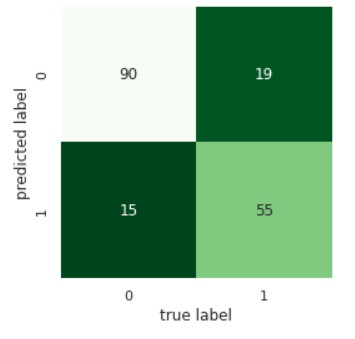
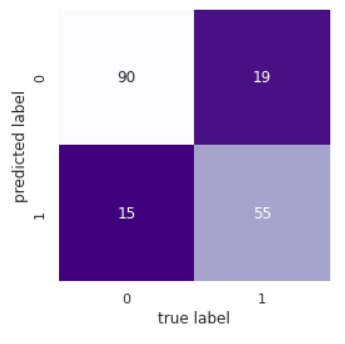
correct-info

diff --git a/screens/HomeScreen.js b/screens/HomeScreen.js
@@ -20,32 +20,41 @@ export default function HomeScreen() {
                 require('../assets/titanic.jpeg')
               }
               className='mt-2 rounded-full'
-              style={{ width: 50, height: 50}}
+              style={{ width: 60, height: 60}}
             />
             <View>
               <Text className='text-xs text-[#666768] text-justify'>Reto</Text>
-              <Text className='text-[#131314] font-black text-2xl tracking-wide'>Titanic</Text>
+              <Text className='text-black font-black text-2xl tracking-wide'>Titanic</Text>
             </View>    
           </View>
           <View>
-            <Text className='text-lg font-bold'>Presente</Text>
-            <Text className='text-xs text-justify text-[#666768]'>Hoy en día, los algoritmos son necesarios para la mayoría de los campos.</Text>
-            <Text className='text-xs text-justify text-[#666768]'>Se usan en las finanzas(para tener una idea de cómo se moverá la economía en un futuro), en la ciencia(para ver la viabilidad o éxito de un experimento), en la educación(para la enseñanza de carreras como la ingeniería).</Text>
+            <Text className='text-lg font-bold'>Importancia</Text>
+            <Text className='text-xs text-justify text-[#3D3D3E]'>Hoy en día los algoritmos son <Text className='text-[#5c0cbc] font-bold'>necesarios</Text> para la mayoría de los campos, en específico, los de machine learning se aplican en áreas como reconocimiento facial, diagnósticos médicos, clasificación de secuencias de ADN, predicción de tendencias, recomendaciones, vehículos inteligentes, redes sociales, asistentes virtuales, búsquedas, ciberseguridad, entre otros, por lo que es relevante <Text className='text-[#5c0cbc] font-bold'>conocerlos y aplicarlos para eficientar procesos e innovar.</Text></Text>
           </View>
           <View>
-            <Text className='text-lg font-bold'>Pasado</Text>
-            <Text className='text-xs text-justify text-[#666768]'>El Titanic, también conocido como "el barco insumergible", se hundió después de chocar contra un iceberg en su viaje inaugural el 15 de abril de 1912.</Text>
-            <Text className='text-xs text-justify text-[#666768]'>Desafortunadamente, no había suficientes botes salvavidas, lo que costó la vida de pasajeros y tribulantes que estuvieron a bordo. Pese a que algunas personas tuvieron suerte al sobrevivir, existe un grupo de personas que tenían más posibilidades de vivir que otros.</Text>
+            <Text className='text-lg font-bold'>Machine Learning</Text>
+            <Text className='text-xs text-justify text-[#3D3D3E]'>Es una disciplina en el campo de inteligencia artificial la cual hace uso de algoritmos que le permiten a las computadoras <Text className='text-[#5c0cbc] font-bold'>identificar patrones en datos masivos y generar predicciones</Text>, lo cuál permite que puedan realizar acciones o trabajos específicos sin necesidad de ser programadas. A continuación se explican las 3 categorías de algoritmos que existen en esta área.</Text>
+            <Text className='text-md font-bold pt-2'>Aprendizaje supervisado</Text>
+            <Text className='text-xs text-justify text-[#3D3D3E]'>Son algoritmos que aprenden previamente sobre un sistema de etiquetas asociadas a datos y a partir de ellas predicen o toman decisiones.</Text>
+            <Text className='text-md font-bold pt-2'>Aprendizaje no supervisado</Text>
+            <Text className='text-xs text-justify text-[#3D3D3E]'>Son algoritmos que no cuentan con aprendizaje previo y que a partir de los datos encuentran patrones para organizar.</Text>
+            <Text className='text-md font-bold pt-2'>Aprendizaje por refuerzo</Text>
+            <Text className='text-xs text-justify text-[#3D3D3E]'>Son algoritmos que aprenden a partir de su experiencia para tomar decisiones en distintas situaciones por medio de pruebas y errores con recompensas.</Text>
+          </View>
+          <View>
+            <Text className='text-lg font-bold'>Historia</Text>
+            <Text className='text-xs text-justify text-[#3D3D3E]'>El Titanic, también conocido como "el barco insumergible", se hundió después de chocar contra un iceberg en su viaje inaugural el 15 de abril de 1912. Desafortunadamente, no había suficientes botes salvavidas para todos, lo que costó la vida de bastantes pasajeros y tribulantes que estuvieron a bordo durante el incidente.</Text>
+            <Text className='text-xs text-justify text-[#3D3D3E]'>Pese a que algunas personas tuvieron suerte, también existió otro grupo que por ciertas <Text className='text-[#5c0cbc] font-bold'>características</Text>, tenían más posibilidades de sobrevivir.</Text>
           </View>
           <View>
             <Text className='text-lg font-bold'>Reto</Text>
-            <Text className='text-xs text-justify text-[#666768]'>Consiste en desarrollar el reto "Titanic - Aprendizaje automático a partir de desastres" el cuál tiene como objetivo construir un modelo predictivo que pueda reconocer a aquellas personas que tendrían más probabilidades de sobrevivir al naufragio más reconocido de la historia, tomando en cuenta los datos de las personas que estuvieron a bordo.</Text>
+            <Text className='text-xs text-justify text-[#3D3D3E]'>Consiste en desarrollar el reto <Text className='text-[#5c0cbc] font-bold'>"Titanic - Aprendizaje automático a partir de desastres"</Text> el cuál tiene como objetivo construir un modelo predictivo que pueda reconocer a aquellas personas que tendrían más probabilidades de sobrevivir al naufragio más reconocido de la historia, tomando en cuenta los datos de las personas que estuvieron a bordo.</Text>
           </View>
           <View>
             <Text className='text-lg font-bold'>Equipo 4</Text>
-            <Text className='text-xs text-justify text-[#666768]'>Hazel Astrid Ángeles Quevedo</Text>
-            <Text className='text-xs text-justify text-[#666768]'>Andrick Jesús Pérez Landa</Text>
-            <Text className='text-xs text-justify text-[#666768]'>Karen Rocío Macías Ávila</Text>
+            <Text className='text-xs text-justify text-[#3D3D3E]'>Hazel Astrid Ángeles Quevedo</Text>
+            <Text className='text-xs text-justify text-[#3D3D3E]'>Andrick Jesús Pérez Landa</Text>
+            <Text className='text-xs text-justify text-[#3D3D3E]'>Karen Rocío Macías Ávila</Text>
           </View>
         </View>
       </ScrollView>

diff --git a/screens/AlgorithmTwoScreen.js b/screens/AlgorithmTwoScreen.js
@@ -20,7 +20,7 @@ export default function AlgorithmTwoScreen() {
                 require('../assets/logistic.jpg')
               }
               className='mt-2 rounded-full'
-              style={{ width: 50, height: 50}}
+              style={{ width: 60, height: 60}}
             />
             <View>
               <Text className='text-xs text-[#666768] text-justify'>Algoritmo</Text>
@@ -28,22 +28,23 @@ export default function AlgorithmTwoScreen() {
             </View>
           </View>
           <View>
-            <Text className='text-lg font-bold'>Qué es</Text>
-            <Text className='text-xs text-justify text-[#666768]'>Hoy en día, los algoritmos son necesarios para la mayoría de los campos.</Text>
-            <Text className='text-xs text-justify text-[#666768]'>Se usan en las finanzas(para tener una idea de cómo se moverá la economía en un futuro), en la ciencia(para ver la viabilidad o éxito de un experimento), en la educación(para la enseñanza de carreras como la ingeniería).</Text>
+            <Text className='text-lg font-bold'>¿Qué es?</Text>
+            <Text className='text-xs text-justify text-[#3D3D3E]'>Es un algoritmo de machine learning para aprendizaje supervisado que clasifica datos en categorías o clases al <Text className='text-[#5c0cbc] font-bold'>predecir la probabilidad de que una observación caiga en una clase particular en función de sus características</Text>. A pesar de que se puede extender a más de dos categorías, la regresión logística se usa a menudo para hacer una clasificación binaria.</Text>
+            <Text className='text-xs text-justify text-[#3D3D3E]'>Funciona transformando el predictor lineal mediante la función sigmoidea para que los valores estén entre 0 y 1 para interpretarlos como probabilidades que después se comparen con un umbral para predecir una clase <Text className='text-[#5c0cbc] font-black'>y</Text> basada en <Text className='text-[#5c0cbc] font-black'>x</Text>.</Text>
           </View>
           <View>
             <Text className='text-lg font-bold'>Justificación</Text>
-            <Text className='text-xs text-justify text-[#666768]'>Hoy en día, los algoritmos son necesarios para la mayoría de los campos.</Text>
-            <Text className='text-xs text-justify text-[#666768]'>Se usan en las finanzas(para tener una idea de cómo se moverá la economía en un futuro), en la ciencia(para ver la viabilidad o éxito de un experimento), en la educación(para la enseñanza de carreras como la ingeniería).</Text>
+            <Text className='text-xs text-justify text-[#3D3D3E]'>Ya que este algoritmo se usa habitualmente para determinar o <Text className='text-[#5c0cbc] font-bold'>clasificar entre dos categorías</Text> se determinó que su uso es apropiado para el desarrollo del reto.</Text>
+            <Text className='text-xs text-justify text-[#3D3D3E]'>Por otra parte, se seleccionó este modelo debido a que al graficar los valores y ajustarlos mediante una función se puede buscar un nuevo punto que, tomando en cuenta el umbral <Text className='text-[#5c0cbc] font-bold'>(determinado por la persona que realiza el modelo)</Text> puede determinar con mayor precisión las categorías buscadas. Además, al ser una función que se puede graficar, dependiendo de la cantidad de características diferentes que tienen los datos es un <Text className='text-[#5c0cbc] font-bold'>modelo visual</Text> en el que se puede plasmar el nuevo <Text className='text-[#5c0cbc] font-bold'>sujeto a predecir</Text> y  <Text className='text-[#5c0cbc] font-bold'>localizarlo</Text> en un punto en concreto dentro de la gráfica.</Text>
+            <Text className='text-xs text-justify text-[#3D3D3E]'>La regresión logística es más fácil de implementar, interpretar, eficiente de entrenar y es menos propensa al overfitting.</Text>
           </View>
           <View>
             <Text className='text-lg font-bold'>Resultados</Text>
-            <Text className='text-xs text-justify text-[#666768]'>A continuación se presentan los valores de predicción finales que obtuvimos con el modelo.</Text>
+            <Text className='text-xs text-justify text-[#3D3D3E]'>A continuación se presentan los valores de predicción finales que obtuvimos con el modelo.</Text>
             <View className='flex space-y-2'>
               <View>
                 <Text className='text-md font-bold pt-2'>Precisión</Text>
-                <Text className='text-xs text-justify text-[#666768]'>0.81</Text>
+                <Text className='text-xs text-justify text-[#3D3D3E]'>0.81</Text>
               </View>
               <View>
                 <Text className='text-md font-bold'>Matriz de confusión</Text>
@@ -66,11 +67,11 @@ export default function AlgorithmTwoScreen() {
               </View>
               <View>
                 <Text className='text-md font-bold'>Área bajo la curva</Text>
-                <Text className='text-xs text-justify text-[#666768]'>0.80</Text>
+                <Text className='text-xs text-justify text-[#3D3D3E]'>0.80</Text>
               </View>
               <View>
                 <Text className='text-md font-bold'>Puntaje de Kaggle</Text>
-                <Text className='text-xs text-justify text-[#666768]'>0.76</Text>
+                <Text className='text-xs text-justify text-[#3D3D3E]'>0.76</Text>
               </View>
             </View>
           </View>

diff --git a/screens/SelectScreen.js b/screens/SelectScreen.js
@@ -1,4 +1,4 @@
-import { View, Text, ScrollView } from 'react-native';
+import { View, Text, ScrollView, Image } from 'react-native';
 import React from 'react';
 import NavBar from '../components/NavBar';
 
@@ -13,8 +13,41 @@ export default function SelectScreen() {
       contentContainerStyle={{
         paddingVertical: 15,
       }}>
-			  <Text className='text-[#131314] font-black text-2xl tracking-wide'>Select Screen</Text>
-        <Text className='text-sm text-[#666768]'>Hola</Text>
+			  <View className='flex space-y-5'>
+          <View className='flex-row items-end space-x-2'>
+            <Image
+              source={
+                require('../assets/selection.jpg')
+              }
+              className='mt-2 rounded-full'
+              style={{ width: 60, height: 60}}
+            />
+            <View>
+              <Text className='text-xs text-[#666768] text-justify'>Random Forest</Text>
+              <Text className='text-[#131314] font-black text-2xl tracking-wide'>Selección de algoritmo</Text>
+            </View>
+          </View>
+          <View>
+            <Text className='text-lg font-bold'>Justificación</Text>
+            <Text className='text-xs text-justify text-[#3D3D3E]'>Tomando en cuenta que conocemos las categorías que queremos obtener, es decir, si una persona sobrevive o no sobrevive, estamos hablando de un <Text className='text-[#5c0cbc] font-bold'>aprendizaje supervisado</Text> y los algoritmos seleccionados cumplen con esa característica.</Text>
+            <Text className='text-md font-bold pt-2'>Método de comparación</Text>
+            <Text className='text-xs text-justify text-[#3D3D3E]'>Al comparar el rendimiento general de los modelos, se consideraron como principales métricas la precisión, el ROC y el AUC.</Text>
+            <Text className='text-xs text-justify text-[#3D3D3E]'>En este caso, se tomaron los archivos de train y test para probar el modelo y para determinar si este <Text className='text-[#5c0cbc] font-bold'>predice correctamente en datos de entrenamiento</Text> se analizaron todas las métricas previamente mencionadas.</Text>
+            <Text className='text-md font-bold pt-2'>Métricas</Text>
+            <Text className='text-xs font-bold pt-2'>Precisión</Text>
+            <Text className='text-xs text-justify text-[#3D3D3E]'>Es un buen promedio general de qué tan bien el modelo puede predecir y calcular.</Text>
+            <Text className='text-xs font-bold pt-2'>ROC</Text>
+            <Text className='text-xs text-justify text-[#3D3D3E]'>Después de ejecutar el conjunto de datos simulado a través de cada modelo, los resultados pueden ser representados <Text className='text-[#5c0cbc] font-bold'>gráficamente</Text> utilizando la curva característica operativa del receptor.</Text>
+            <Text className='text-xs text-justify text-[#3D3D3E]'>La curva ROC es un gráfico con el eje <Text className='text-[#5c0cbc] font-black'>x</Text> de 0 a 1 de la tasa de <Text className='text-[#5c0cbc] font-bold'>falsos positivos</Text> y el eje <Text className='text-[#5c0cbc] font-black'>y</Text> de 0 a 1 de la tasa de <Text className='text-[#5c0cbc] font-bold'>verdaderos positivos</Text> en varios ajustes de <Text className='text-[#5c0cbc] font-bold'>umbral</Text>. Un predictor perfecto tendría una tasa de falsos positivos de 0 y una tasa positiva verdadera de 1.</Text>
+            <Text className='text-xs font-bold pt-2'>AUC</Text>
+            <Text className='text-xs text-justify text-[#3D3D3E]'>Cuando se grafica sobre una serie de umbrales, el área bajo la curva puede proporcionar un <Text className='text-[#5c0cbc] font-bold'>valor único</Text> que brinda información acerca de qué tan bien el modelo está clasificando.</Text>
+            <Text className='text-xs text-justify text-[#3D3D3E]'>El AUC es más descriptivo que precisión porque es un <Text className='text-[#5c0cbc] font-bold'>equilibrio de precisión y tasa de falsos positivos.</Text></Text>
+            <Text className='text-xs font-bold pt-2'>Matriz de confusión</Text>
+            <Text className='text-xs text-justify text-[#3D3D3E]'>A pesar de no ser una de las métricas previamente mencionadas, se tomó en cuenta debido a que al igual que los anteriores parámetros nos permite visualizar el desempeño de nuestro algoritmo, en particular, sirve para mostrar de forma explícita cuando una clase es <Text className='text-[#5c0cbc] font-bold'>confundida con otra</Text>, lo cual, nos permite trabajar de forma separada con distintos tipos de <Text className='text-[#5c0cbc] font-bold'>error.</Text></Text>
+            <Text className='text-md font-bold pt-2'>Conclusión</Text>
+            <Text className='text-xs text-justify text-[#3D3D3E]'>Con todo esto en cuenta y al utilizar la misma <Text className='text-[#5c0cbc] font-bold'>limpieza de datos</Text> con los modelos de Logistic Regression y con Random Forest, se observó que el segundo algorimto tiene un <Text className='text-[#5c0cbc] font-bold'>mejor desempeño</Text> en las métricas principales, lo que se puede deducir para este caso especifico de datos que <Text className='text-[#5c0cbc] font-bold'>Random Forest</Text> es el mejor algoritmo para predecir a aquellas personas que podrían sobrevivir ante el hundimiento del Titanic.</Text>
+          </View>
+        </View>
       </ScrollView>
     </View>
   )

diff --git a/screens/AlgorithmOneScreen.js b/screens/AlgorithmOneScreen.js
@@ -20,7 +20,7 @@ export default function AlgorithmOneScreen() {
                 require('../assets/forest.jpg')
               }
               className='mt-2 rounded-full'
-              style={{ width: 50, height: 50}}
+              style={{ width: 60, height: 60}}
             />
             <View>
               <Text className='text-xs text-[#666768] text-justify'>Algoritmo</Text>
@@ -28,22 +28,22 @@ export default function AlgorithmOneScreen() {
             </View>
           </View>
           <View>
-            <Text className='text-lg font-bold'>Qué es</Text>
-            <Text className='text-xs text-justify text-[#666768]'>Es un algoritmo de machine learning, el cual combina la salida de muchos árboles de decisión para conseguir una salida única.</Text>
-            <Text className='text-xs text-justify text-[#666768]'>Este usa muchos árboles de decisiones, lo que favorece el encontrar una mejor solución, ya que puede compensar el error de algunos árboles de decisión al comparar las respuestas y conseguir una que sea mucho mejor. </Text>
+            <Text className='text-lg font-bold'>¿Qué es?</Text>
+            <Text className='text-xs text-justify text-[#3D3D3E]'>Es un algoritmo de machine learning para aprendizaje supervisado, el cual <Text className='text-[#5c0cbc] font-bold'>combina la salida de muchos árboles de decisión para conseguir una salida única.</Text></Text>
+            <Text className='text-xs text-justify text-[#3D3D3E]'>Este usa muchos árboles de decisiones aleatorios, lo que favorece el encontrar una mejor solución, ya que puede <Text className='text-[#5c0cbc] font-bold'>compensar el error</Text> de algunos árboles de decisión al comparar las respuestas y conseguir una que sea mucho mejor ya que la diversidad resulta en un mejor modelo.</Text>
           </View>
           <View>
             <Text className='text-lg font-bold'>Justificación</Text>
-            <Text className='text-xs text-justify text-[#666768]'>Este algoritmo, como beneficios, proporciona un menor riesgo de overfitting y una menor cantidad de falsos positivos/negativos; su facilidad de uso y su adaptabilidad son puntos clave para ser una buena opción para este problema.</Text>
-            <Text className='text-xs text-justify text-[#666768]'>Texto 2</Text>
+            <Text className='text-xs text-justify text-[#3D3D3E]'>Este algoritmo, como  <Text className='text-[#5c0cbc] font-bold'>beneficios</Text>, proporciona un menor riesgo de overfitting y una menor cantidad de falsos positivos/negativos; su facilidad de uso y su adaptabilidad son puntos clave para ser una buena opción para este problema.</Text>
+            <Text className='text-xs text-justify text-[#3D3D3E]'>Se seleccionó este modelo debido a que, agarra todos los datos que se eligieron para predecir y los comienza a <Text className='text-[#5c0cbc] font-bold'>combinar para crear diversas decisiones que generan una clasificación final de forma aleatoria</Text>, esto en repetidas ocasiones hasta que al finalizar se realiza una <Text className='text-[#5c0cbc] font-bold'>votación</Text> entre todos y se obtiene una categoría final, creando una oportunidad de encontrar una solución muy precisa ya que juega con todos los datos.</Text>
           </View>
           <View>
             <Text className='text-lg font-bold'>Resultados</Text>
-            <Text className='text-xs text-justify text-[#666768]'>A continuación se presentan los valores de predicción finales que obtuvimos con el modelo.</Text>
+            <Text className='text-xs text-justify text-[#3D3D3E]'>A continuación se presentan los valores de predicción finales que obtuvimos con el modelo.</Text>
             <View className='flex space-y-2'>
               <View>
                 <Text className='text-md font-bold pt-2'>Precisión</Text>
-                <Text className='text-xs text-justify text-[#666768]'>0.82</Text>
+                <Text className='text-xs text-justify text-[#3D3D3E]'>0.82</Text>
               </View>
               <View>
                 <Text className='text-md font-bold'>Matriz de confusión</Text>
@@ -61,16 +61,16 @@ export default function AlgorithmOneScreen() {
                   require('../assets/roc_alg1.jpeg')
                 }
                 className='mt-2'
-                style={{ width: 360, height: 210}}
+                style={{ width: 350, height: 210}}
                 />
               </View>
               <View>
                 <Text className='text-md font-bold'>Área bajo la curva</Text>
-                <Text className='text-xs text-justify text-[#666768]'>0.80</Text>
+                <Text className='text-xs text-justify text-[#3D3D3E]'>0.80</Text>
               </View>
               <View>
                 <Text className='text-md font-bold'>Puntaje de Kaggle</Text>
-                <Text className='text-xs text-justify text-[#666768]'>0.74</Text>
+                <Text className='text-xs text-justify text-[#3D3D3E]'>0.74</Text>
               </View>
             </View>
           </View>

diff --git a/screens/PredictionScreen.js b/screens/PredictionScreen.js
@@ -26,7 +26,7 @@ export default function PredictionScreen() {
                 require('../assets/random.jpg')
               }
               className='mt-2 rounded-full'
-              style={{ width: 50, height: 50}}
+              style={{ width: 60, height: 60}}
             />
             <View>
               <Text className='text-xs text-[#666768] text-justify'>Algoritmo: Random Forest</Text>
@@ -37,7 +37,7 @@ export default function PredictionScreen() {
             <Formik 
             initialValues={{passengerid:'', pclass:'', name:'', sex:'', age:'', sibsp:'', parch:'', ticket:'', fare:'', cabin:'', embarked:''}}
             onSubmit={values=>
-            axios.post('http://10.48.229.5:5000/predict',{
+            axios.post('http://192.168.1.65:5000/predict',{
               passengerid: values.passengerid,
               pclass: values.pclass,
               name: values.name,
@@ -69,7 +69,7 @@ export default function PredictionScreen() {
                 onChangeText={handleChange('pclass')}
                 onBlur={handleBlur('pclass')}
                 value={values.pclass}
-                placeholder="Opciones: 1, 2, 3"
+                placeholder="Opciones: 1=primera clase, 2=segunda clase, 3=tercera clase"
                 className='text-xs h-12 bg-white border border-[#666768]'
                 />
               </View>
@@ -89,7 +89,7 @@ export default function PredictionScreen() {
                 onChangeText={handleChange('sex')}
                 onBlur={handleBlur('sex')}
                 value={values.sex}
-                placeholder="Opciones: 0-hombre, 1-mujer"
+                placeholder="Opciones: 0=hombre, 1=mujer"
                 className='text-xs h-12 bg-white border border-[#666768]'
                 />
               </View>
@@ -159,16 +159,16 @@ export default function PredictionScreen() {
                 onChangeText={handleChange('embarked')}
                 onBlur={handleBlur('embarked')}
                 value={values.embarked}
-                placeholder="Opciones: 0 = Cherbourg, 1 = Queenstown, 2 = Southampton"
+                placeholder="Opciones: 0=Cherbourg, 1=Queenstown, 2=Southampton"
                 className='text-xs h-12 bg-white border border-[#666768]'
                 />
               </View>
               <View className='flex items-center p-2 space-y-3'>
-                <Button onPress={handleSubmit} title=' Predecir ' color='#345b54'/>
+                <Button onPress={handleSubmit} title=' Predecir ' color='#5c0cbc'/>
                 <View className='flex space-y-1 items-center'>
                   <Text className='text-lg font-bold'>Predicción</Text>
-                  <Text className='text-xs text-justify text-[#666768]'>La predicción devuelve un 0 y 1 que corresponde a morir o sobrevivir respectivamente.</Text>
-                  <Text className='text-xs text-justify text-[#345b54] font-extrabold'>{prediction}</Text>
+                  <Text className='text-xs text-justify text-[#3D3D3E]'>La predicción devuelve las opciones: 0 = sobrevivir y  1 = no sobrevivir. El resultado para la persona que ingresaste es el siguiente.</Text>
+                  <Text className='text-lg text-justify text-[#5c0cbc] font-black'>{prediction}</Text>
                 </View>
               </View>
             </View>

diff --git a/components/NavBar.js b/components/NavBar.js
@@ -32,43 +32,43 @@ export default function NavBar({isHome, isAlg1, isAlg2, isSelect, isPrediction})
         </TouchableOpacity>
       )
     }
-    <View className='bg-[#131314] h-24 z-10'>
-      <View className={`bg-[#131314] w-64 h-[10000px] px-6 z-10 ${isOpen ? 'translate-x-0' : 'translate-x-96'} ease-in-out duration-700`}>
+    <View className='bg-[#5c0cbc] h-24 z-10'>
+      <View className={`bg-[#5c0cbc] w-64 h-[10000px] px-6 z-10 ${isOpen ? 'translate-x-0' : 'translate-x-96'} ease-in-out duration-700`}>
         <View className='pt-24 flex space-y-4'>
           <TouchableOpacity 
           onPress={()=>{
             navigation.navigate('Home')
           }}
           >
-            <Text className={`text-xl font-bold ${isHome ? 'text-white underline underline-offset-8': 'text-[#666768]'}`}>Inicio</Text>
+            <Text className={`text-xl font-bold ${isHome ? 'text-white underline': 'text-[#E0E0E1]'}`}>Inicio</Text>
           </TouchableOpacity>
           <TouchableOpacity 
           onPress={()=>{
             navigation.navigate('AlgorithmOne')
           }}
           >
-            <Text className={`text-xl font-bold ${isAlg1 ? 'text-white underline': 'text-[#666768]'}`}>Algoritmo uno</Text>
+            <Text className={`text-xl font-bold ${isAlg1 ? 'text-white underline': 'text-[#E0E0E1]'}`}>Algoritmo uno</Text>
           </TouchableOpacity>
           <TouchableOpacity 
           onPress={()=>{
             navigation.navigate('AlgorithmTwo')
           }}
           >
-            <Text className={`text-xl font-bold ${isAlg2 ? 'text-white underline': 'text-[#666768]'}`}>Algoritmo dos</Text>
+            <Text className={`text-xl font-bold ${isAlg2 ? 'text-white underline': 'text-[#E0E0E1]'}`}>Algoritmo dos</Text>
           </TouchableOpacity>
           <TouchableOpacity 
           onPress={()=>{
             navigation.navigate('Select')
           }}
           >
-            <Text className={`text-xl font-bold ${isSelect ? 'text-white underline': 'text-[#666768]'}`}>Selección</Text>
+            <Text className={`text-xl font-bold ${isSelect ? 'text-white underline': 'text-[#E0E0E1]'}`}>Selección</Text>
           </TouchableOpacity>
           <TouchableOpacity 
           onPress={()=>{
             navigation.navigate('Prediction')
           }}
           >
-            <Text className={`text-xl font-bold ${isPrediction ? 'text-white underline': 'text-[#666768]'}`}>Predicción</Text>
+            <Text className={`text-xl font-bold ${isPrediction ? 'text-white underline': 'text-[#E0E0E1]'}`}>Predicción</Text>
           </TouchableOpacity>
         </View>
       </View>

diff --git a/flaskfile.py b/flaskfile.py
@@ -30,4 +30,4 @@ def predict():
   return str(prediction)
 
 if __name__ == "__main__":
-  app.run('10.48.229.5')
+  app.run('192.168.1.65')
